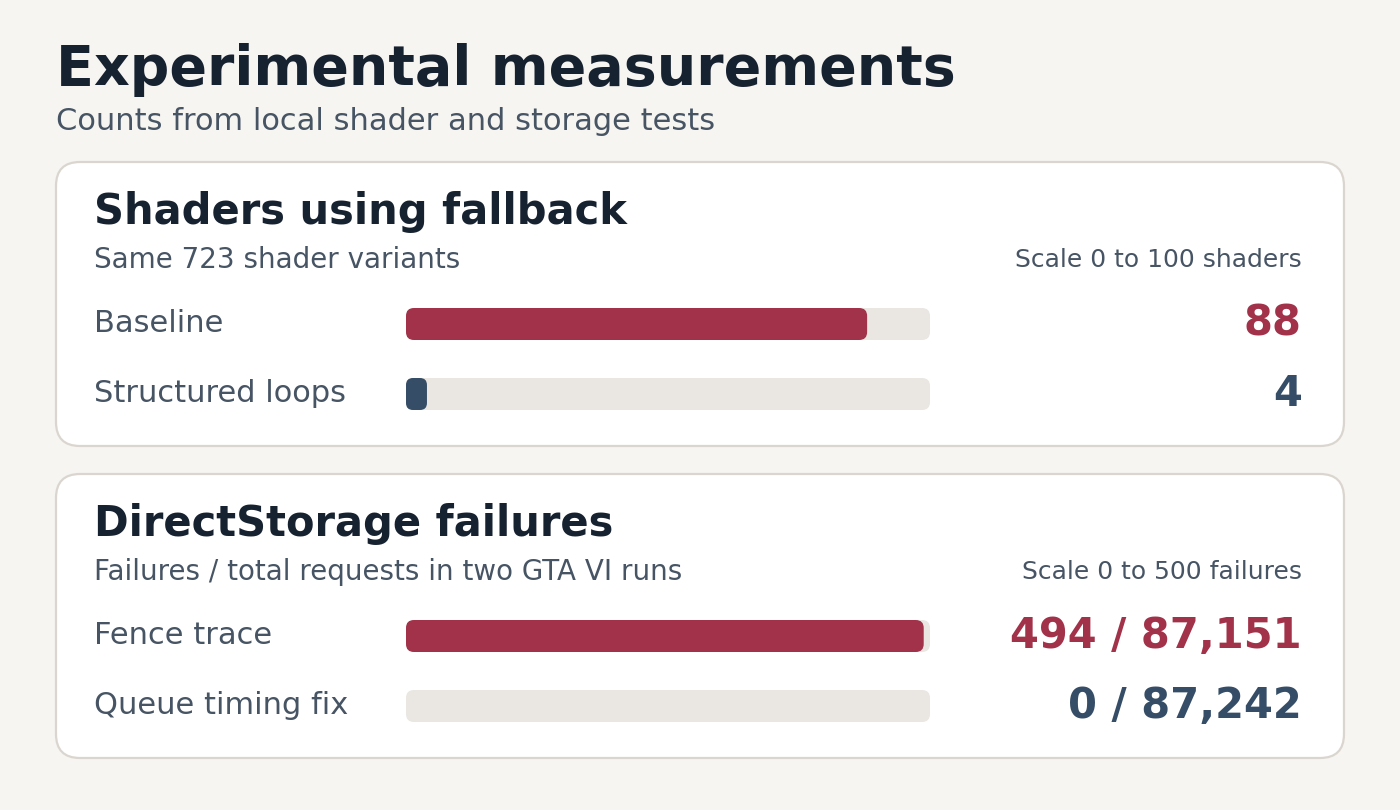
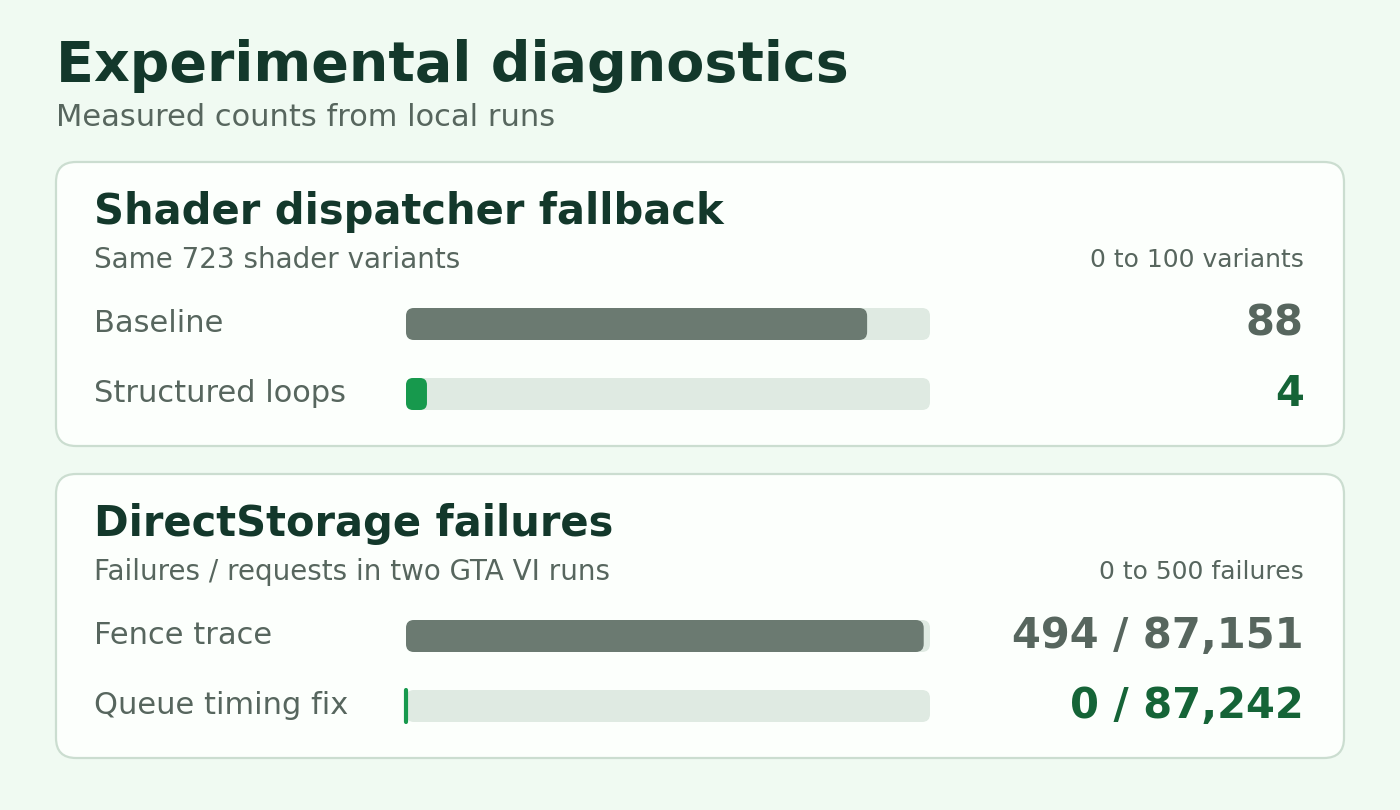
Show verified and open milestones in a light green design

diff --git a/README.md b/README.md
@@ -1,25 +1,28 @@
-# Scarlett Relay
+![Scarlett Relay. Xbox Series X|S for Apple Silicon.](assets/relay-header.jpg)
 
-Experimental Xbox Series X|S compatibility for Apple Silicon. Scarlett Relay builds on XCL and runs locally through CrossOver Preview and D3DMetal.
+Scarlett Relay is an experimental compatibility layer built on XCL. It runs locally on Apple Silicon through CrossOver Preview and D3DMetal.
 
 [GTA VI status](#gta-vi-status) · [Current work](#current-work) · [Build and run](#build-and-run)
 
+![GTA VI launch checklist: 4 verified milestones and 3 open. Xbox Series fixture: 43 to 44 passed and 6 to 7 failing out of 50 checks.](assets/relay-progress.png)
+
 ## GTA VI status
 
-**World loading reached. The first mission is still blocked.** Tested on the Xbox Series 1.0.2.1 build with an Apple M3 Max, CrossOver Preview 27.0.0.41073, and D3DMetal 4.0b3.
+**The first mission is still blocked during world loading.** The checklist tracks observed stages for Xbox Series build 1.0.2.1 on an Apple M3 Max with CrossOver Preview 27.0.0.41073 and D3DMetal 4.0b3.
 
-| Milestone | Observed on Mac |
-| --- | --- |
-| Boot and intro | The executable starts offline and renders the intro. |
-| Setup and menus | Controller input works through setup. Menus render at about 30 FPS. |
-| World loading | Loading artwork renders while the game streams assets and builds GPU pipelines. |
-| First mission | The nine-minute shader test ended on loading artwork. Presentation stalled and the title's watchdog fired. |
+| Milestone | Status | Observed on Mac |
+| --- | --- | --- |
+| Offline boot | Verified | The Xbox Series executable starts offline. |
+| Intro | Verified | The opening graphics render. |
+| Setup and menus | Verified | Controller input works through setup. Menus render at about 30 FPS. |
+| World loader | Verified | The game draws loading artwork and reads world assets. |
+| Live 3D scene | Open | Frame presentation stalls during loading and the title's watchdog fires. |
+| Gameplay input | Open | In-world movement and camera control await a rendered scene. |
+| First mission | Open | A playable run through the first mission remains unverified. |
 
 ## Verified on Mac
 
-![Xbox Series compatibility fixture across three clean runs. The runs passed 43, 44, and 43 of 50 checks.](assets/mac-compatibility.png)
-
-The XCL fixture verifies GPU rendering and frame presentation, among other Xbox Series interfaces. Sparse buffer readback and a DirectStorage fence still fail. [Reproduce the compatibility checks](#reproduce-the-compatibility-checks)
+The last three clean XCL fixture runs passed **43, 44, and 43 of 50 checks**, including GPU rendering and frame presentation. Sparse buffer readback and a DirectStorage fence still fail. [Reproduce the compatibility checks](#reproduce-the-compatibility-checks)
 
 **TuxBox Lanes** completed its scripted replay with the optional Lanes build. The game checked all 16 GPU-generated course rows, a winning run, a missed coin, a collision, and two rendered boards by pixel readback. [Reproduce the TuxBox Lanes replay](#reproduce-the-tuxbox-lanes-replay)
 
@@ -32,8 +35,8 @@ Local experiments on the M3 Max, updated 24 November 2026.
 | Area | What we measured | What we're testing |
 | --- | --- | --- |
 | Shader translation | Both builds translated the same 723 variants. The new translator used the fallback for 4 variants, down from 88. On the Mac GPU, 120 synthetic programs produced matching output with both translators. The game still stalled in the nine-minute run. | Measure which large compute shaders still take the longest to compile. [Upstream compiler change](https://github.com/ivall/xcl/commit/b8b1f491ea5e075a82293f6ebefd8eceffc74de7) |
-| Pipeline creation | Two pipeline builds held the same game thread for 43.4 and 47.3 seconds. One traced pipeline sat in the preload queue from 10 seconds into the run until the game thread claimed it at 151 seconds. | Prioritize the measured slow pipelines and check whether they finish before first use. |
-| Pipeline cache | D3DMetal returned an empty individual pipeline cache blob in a small compute test. A pipeline library saved in one process reopened successfully in a second. | Measure library reload times on a large compute pipeline. |
+| Pipeline creation | Prioritizing four selected pipelines started their builds around nine to ten seconds into the run. One still waited for the single background compile slot through the six-minute cap. The last frame was loading artwork. | Test a smaller shader form for the largest compute pipelines. |
+| Pipeline cache | In a generated compute benchmark, D3DMetal took about 5.1 seconds on the first creation and about 2 to 3 ms in later processes. Loading an explicit pipeline library was also in that range. | Measure how much of the default driver cache behavior carries over to the game's larger pipelines. |
 | DirectStorage | A focused CPU test reproduced a read starting before its destination page list was ready. The queue change passed the byte-for-byte check. The chart shows two individual retail runs, both of which stalled on loading artwork. | Check whether later runs also complete storage requests cleanly and whether that changes the loading outcome. [Upstream queue fix](https://github.com/ivall/xcl/pull/549) |
 
 ## Build and run
